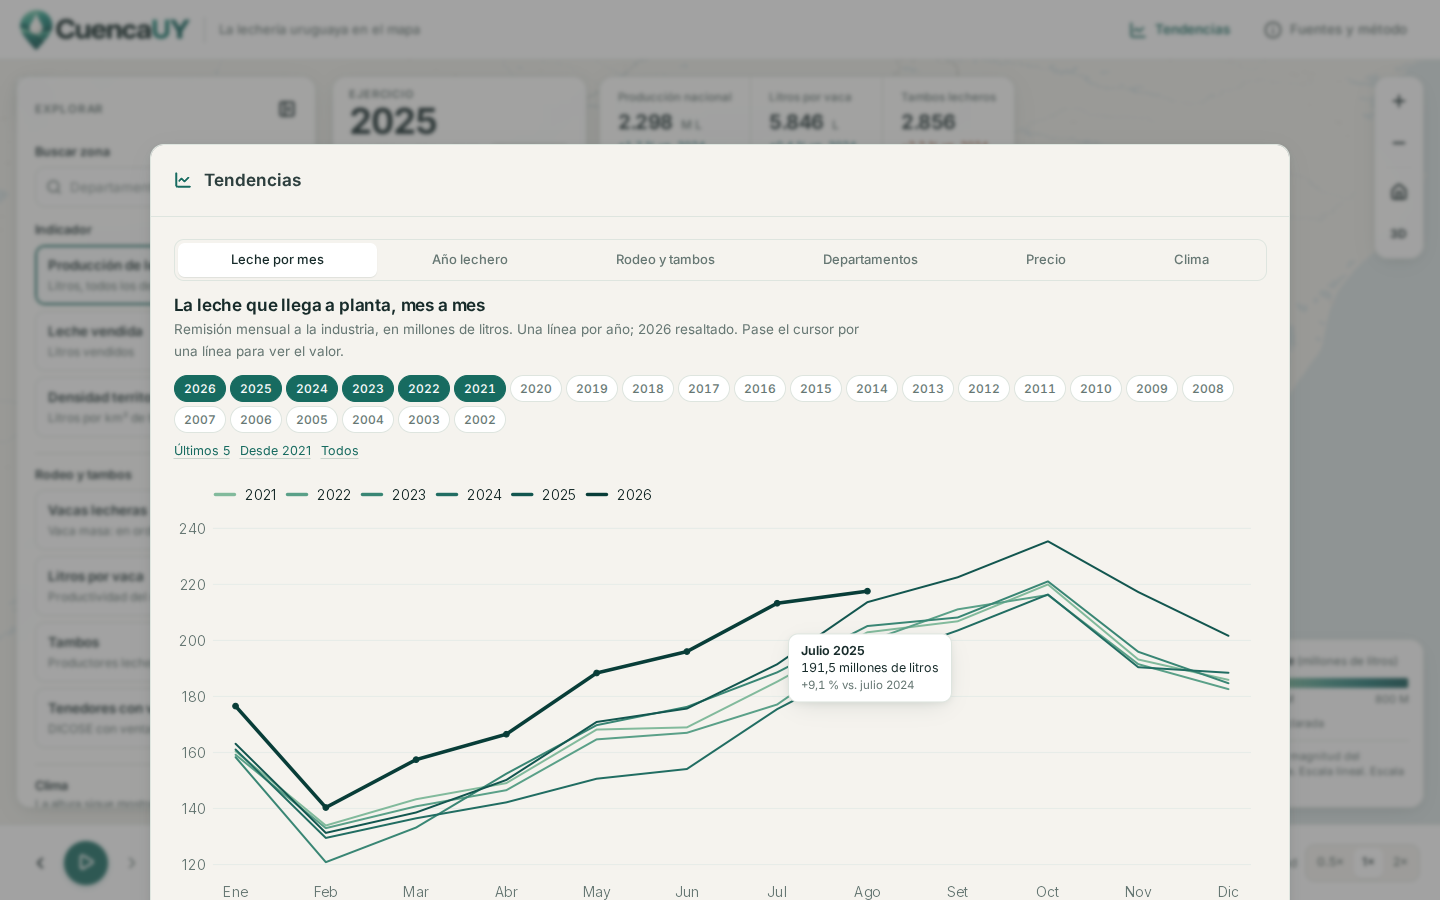
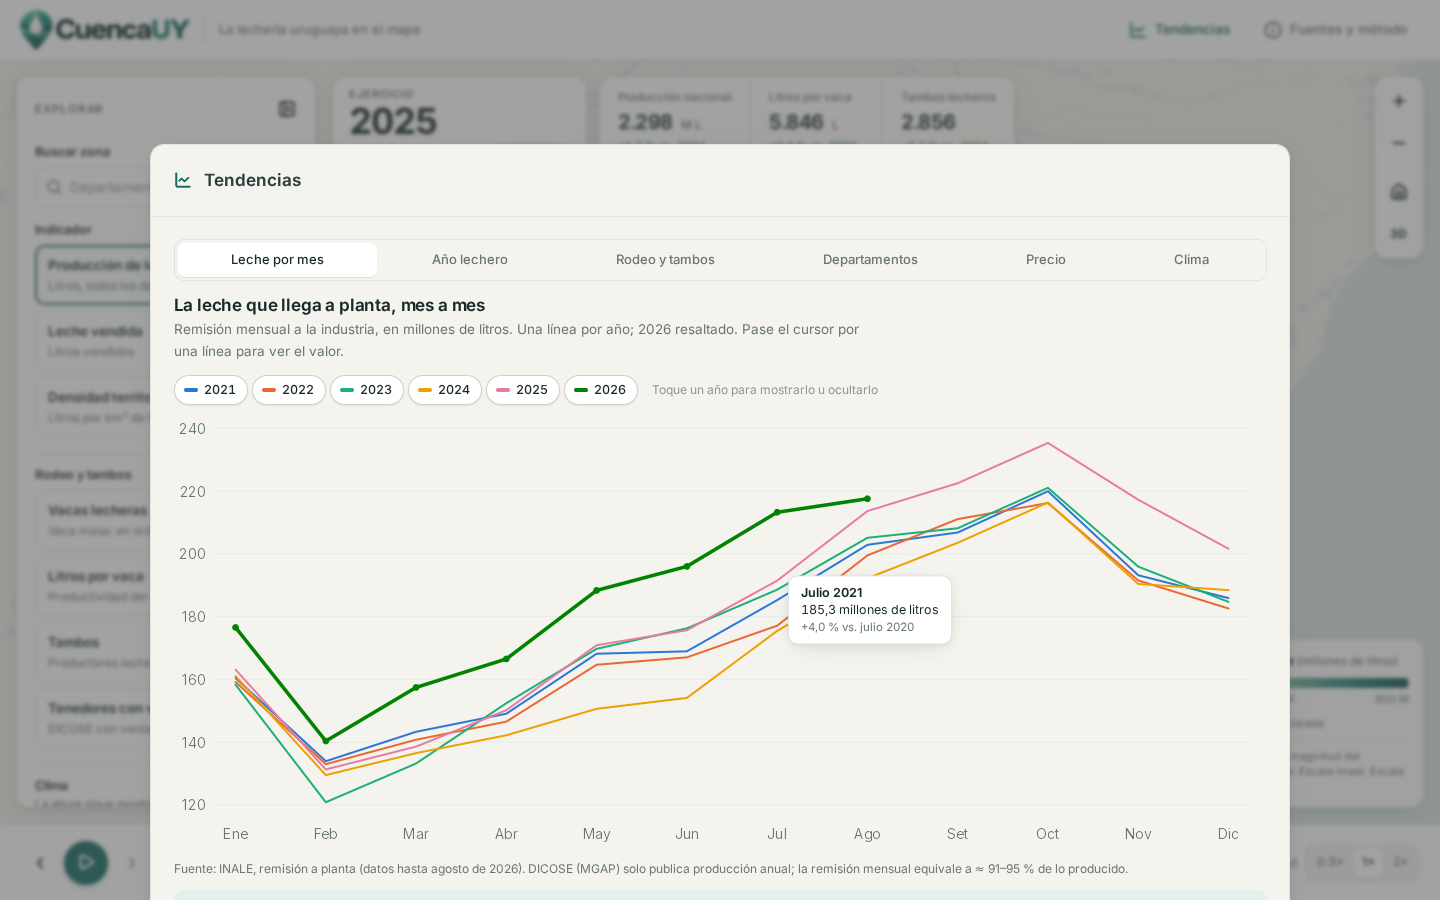
Tendencias: un color por año y series mensuales desde 2021; enlaces a CuencaUY
- Leche por mes y Año lechero: cada año tiene un color propio (paleta
  categórica validada para daltonismo) y los botones de año hacen de
  leyenda. Se muestran desde 2021, el primer ejercicio del atlas.
- Las gráficas para difusión usan los mismos colores por año.
- Enlaces del README, DESCRIPTION y pkgdown apuntan al repositorio
  CuencaUY.

Claude-Session: https://claude.ai/code/session_01XQiGS6kz4Ctx4amYo4YVVf

diff --git a/www/css/atlas.css b/www/css/atlas.css
@@ -433,19 +433,17 @@ body { overflow: hidden; }
 .tv-chips { display: flex; flex-wrap: wrap; gap: 4px; }
 .tv-chip { position: relative; margin: 0; cursor: pointer; }
 .tv-chip input { position: absolute; opacity: 0; inset: 0; margin: 0; cursor: pointer; }
-.tv-chip span {
-  display: inline-block; padding: 3px 9px; border-radius: 999px; font-size: 12px; font-weight: 500;
-  border: 1px solid var(--line); color: var(--ink-2); background: var(--surface);
+.tv-chip > span {
+  display: inline-flex; align-items: center; gap: 6px; padding: 4px 11px 4px 9px; border-radius: 999px;
+  font-size: 12.5px; font-weight: 500; border: 1px solid var(--line); color: var(--ink-3);
+  background: transparent; text-decoration: line-through; text-decoration-color: var(--line-strong);
   transition: background .15s var(--ease), color .15s var(--ease), border-color .15s var(--ease);
 }
-.tv-chip input:checked + span { background: var(--brand); border-color: var(--brand); color: #FFFFFF; }
+.tv-swatch { width: 14px; height: 3px; border-radius: 2px; opacity: .35; }
+.tv-chip input:checked + span { background: var(--surface); border-color: var(--line-strong); color: var(--ink); text-decoration: none; box-shadow: var(--shadow-1); }
+.tv-chip input:checked + span .tv-swatch { opacity: 1; height: 4px; }
 .tv-chip input:focus-visible + span { outline: 2px solid var(--focus); outline-offset: 1px; }
-.tv-presets { display: flex; gap: 10px; }
-.tv-preset {
-  font: inherit; font-size: 12.5px; color: var(--brand); background: none; border: 0; padding: 2px 0;
-  cursor: pointer; text-decoration: underline; text-underline-offset: 3px; text-decoration-color: var(--line-strong);
-}
-.tv-preset:hover { text-decoration-color: var(--brand); }
+.tv-years-hint { font-size: 12px; color: var(--ink-3); }
 .tv-plot { position: relative; min-height: 320px; }
 .tv-plot .shiny-plot-output img { display: block; }
 .tv-tip-wrap { position: absolute; inset: 0; pointer-events: none; }

diff --git a/www/js/atlas.js b/www/js/atlas.js
@@ -395,17 +395,6 @@
         case "btn-about": setInput("about", Date.now(), true); break;
         case "btn-tendencias": setPlaying(false); setInput("tendencias", Date.now(), true); break;
       }
-      // Tendencias: atajos de selección de años.
-      if (t.hasAttribute("data-preset")) {
-        var boxes = Array.prototype.slice.call(document.querySelectorAll('input[name="' + t.getAttribute("data-target") + '"]'));
-        var yrs = boxes.map(function (b) { return parseInt(b.value, 10); });
-        var top = Math.max.apply(null, yrs), pr = t.getAttribute("data-preset");
-        boxes.forEach(function (b) {
-          var y = parseInt(b.value, 10);
-          b.checked = pr === "all" || (pr === "5" ? y > top - 5 : y >= parseInt(pr, 10));
-        });
-        if (boxes.length) boxes[0].dispatchEvent(new Event("change", { bubbles: true }));
-      }
       if (t.classList.contains("tl-year") && !t.disabled) {
         setYear(parseInt(t.getAttribute("data-year"), 10));
         if (S.playing) schedule();

diff --git a/README.md b/README.md
@@ -1,6 +1,6 @@
 # CuencaUY · La lechería uruguaya en el mapa <img src="man/figures/logo.png" align="right" height="139" alt="Hexágono de CuencaUY" />
 
-**Página del proyecto:** <https://juanmarcosmoreno-arch.github.io/milkmapR/>
+**Página del proyecto:** <https://juanmarcosmoreno-arch.github.io/CuencaUY/>
 
 CuencaUY es un atlas digital en R/Shiny que muestra cómo cambia la geografía de la lechería uruguaya entre los ejercicios 2021 y 2025. Usa un mapa 3D en WebGL (mapgl + MapLibre) con los polígonos oficiales elevados según la magnitud del indicador. Los datos provienen de las declaraciones juradas DICOSE–SNIG del MGAP.
 
@@ -113,7 +113,7 @@ El botón **Tendencias** del encabezado abre las gráficas interactivas. Al pasa
 
 | Vista | Qué muestra | Fuente pública |
 |---|---|---|
-| Leche por mes | Remisión mensual a planta, una línea por año (2002 en adelante). Los años se eligen con los botones; hay atajos para los últimos 5, desde 2021 o todos | INALE, estadísticas lecheras |
+| Leche por mes | Remisión mensual a planta desde 2021, una línea por año con un color propio. Los botones de año muestran u ocultan cada línea | INALE, estadísticas lecheras |
 | Año lechero | La misma serie de julio a junio, igual que los ejercicios DICOSE | INALE |
 | Rodeo y tambos | Producción, vacas masa, litros por vaca y tambos, 2021–2025 | MGAP, DICOSE–SNIG (Catálogo de Datos Abiertos) |
 | Departamentos | Variación de la producción 2021 → 2025 | MGAP, DICOSE–SNIG |
